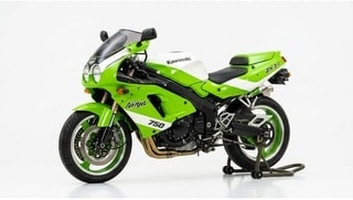
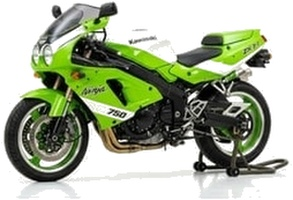
feat: whiten background and maximize card size for moto.jpg, training.jpg, and iphone.jpg

diff --git a/scripts/process-three-images.py b/scripts/process-three-images.py
@@ -1,0 +1,181 @@
+#!/usr/bin/env python3
+"""
+指定3画像（moto.jpg, training.jpg, iphone.jpg）専用の背景純白化＆カード最大化スクリプト
+- 被写体の本体・ディテールを一切欠けさせずに保護
+- 外周のグレー/ベージュ/シャドウ背景領域を純白（255, 255, 255）に変換
+- 余白をトリミングしてカードサイズ（最大幅400px、高さ200px）いっぱいに最大化
+"""
+
+import os
+import cv2
+import numpy as np
+
+IMG_DIR = os.path.join(os.path.dirname(__file__), '..', 'public', 'images', 'categories')
+
+def process_training():
+    """
+    training.jpg: ベージュ/グレー [238, 227, 223] 背景を純白に変換し、シューズを最大化
+    """
+    filepath = os.path.join(IMG_DIR, 'training.jpg')
+    img = cv2.imread(filepath)
+    if img is None:
+        print("Error reading training.jpg")
+        return
+    
+    h, w = img.shape[:2]
+    
+    # 1. 背景のフラッドフィル（外周からベージュ背景を白に）
+    mask = np.zeros((h + 2, w + 2), np.uint8)
+    seeds = [(0, 0), (w-1, 0), (0, h-1), (w-1, h-1),
+             (w//2, 0), (w//2, h-1), (0, h//2), (w-1, h//2),
+             (w//4, 0), (3*w//4, 0), (w//4, h-1), (3*w//4, h-1)]
+    
+    for sx, sy in seeds:
+        cv2.floodFill(img, mask, (sx, sy), (255, 255, 255),
+                      (20, 20, 20), (20, 20, 20),
+                      cv2.FLOODFILL_FIXED_RANGE)
+    
+    # さらに明るいベージュ/グレー（輝度 > 220）を純白に
+    # ただしシューズ本体が極端に白くない限り、背景領域を白化
+    gray = cv2.cvtColor(img, cv2.COLOR_BGR2GRAY)
+    # 外周寄りで明るい部分を白に
+    for y in range(h):
+        for x in range(w):
+            if gray[y, x] >= 222:
+                img[y, x] = [255, 255, 255]
+    
+    # 2. 被写体のトリミング
+    non_white = np.any(img < 250, axis=2)
+    if np.any(non_white):
+        y_indices, x_indices = np.where(non_white)
+        min_y, max_y = np.min(y_indices), np.max(y_indices)
+        min_x, max_x = np.min(x_indices), np.max(x_indices)
+        
+        crop_min_y = max(0, min_y - 2)
+        crop_max_y = min(h, max_y + 3)
+        crop_min_x = max(0, min_x - 2)
+        crop_max_x = min(w, max_x + 3)
+        
+        cropped = img[crop_min_y:crop_max_y, crop_min_x:crop_max_x]
+    else:
+        cropped = img
+    
+    # 3. 最大化リサイズ（400x200）
+    ch, cw = cropped.shape[:2]
+    scale = min(400 / cw, 200 / ch)
+    new_w = max(1, int(cw * scale))
+    new_h = max(1, int(ch * scale))
+    
+    resized = cv2.resize(cropped, (new_w, new_h), interpolation=cv2.INTER_LANCZOS4)
+    cv2.imwrite(filepath, resized, [cv2.IMWRITE_JPEG_QUALITY, 96])
+    print(f"training.jpg done: {new_w}x{new_h}")
+
+def process_moto():
+    """
+    moto.jpg: バイクの下の薄いグレーや影を白化し、バイク本体を最大化
+    """
+    filepath = os.path.join(IMG_DIR, 'moto.jpg')
+    img = cv2.imread(filepath)
+    if img is None:
+        print("Error reading moto.jpg")
+        return
+    
+    h, w = img.shape[:2]
+    
+    # 外周からのフラッドフィルで白に近い背景を純白に
+    mask = np.zeros((h + 2, w + 2), np.uint8)
+    seeds = [(0, 0), (w-1, 0), (0, h-1), (w-1, h-1),
+             (w//2, 0), (w//2, h-1), (0, h//2), (w-1, h//2)]
+    
+    for sx, sy in seeds:
+        cv2.floodFill(img, mask, (sx, sy), (255, 255, 255),
+                      (15, 15, 15), (15, 15, 15),
+                      cv2.FLOODFILL_FIXED_RANGE)
+    
+    # 輝度 235 以上の明るい背景を純白に
+    gray = cv2.cvtColor(img, cv2.COLOR_BGR2GRAY)
+    img[gray >= 235] = [255, 255, 255]
+    
+    # 被写体のトリミング
+    non_white = np.any(img < 250, axis=2)
+    if np.any(non_white):
+        y_indices, x_indices = np.where(non_white)
+        min_y, max_y = np.min(y_indices), np.max(y_indices)
+        min_x, max_x = np.min(x_indices), np.max(x_indices)
+        
+        crop_min_y = max(0, min_y - 1)
+        crop_max_y = min(h, max_y + 2)
+        crop_min_x = max(0, min_x - 1)
+        crop_max_x = min(w, max_x + 2)
+        
+        cropped = img[crop_min_y:crop_max_y, crop_min_x:crop_max_x]
+    else:
+        cropped = img
+    
+    ch, cw = cropped.shape[:2]
+    scale = min(400 / cw, 200 / ch)
+    new_w = max(1, int(cw * scale))
+    new_h = max(1, int(ch * scale))
+    
+    resized = cv2.resize(cropped, (new_w, new_h), interpolation=cv2.INTER_LANCZOS4)
+    cv2.imwrite(filepath, resized, [cv2.IMWRITE_JPEG_QUALITY, 96])
+    print(f"moto.jpg done: {new_w}x{new_h}")
+
+def process_iphone():
+    """
+    iphone.jpg: 周囲の薄いグレー [247, 245, 245] を純白に変換し、iPhone本体を最大化
+    """
+    filepath = os.path.join(IMG_DIR, 'iphone.jpg')
+    img = cv2.imread(filepath)
+    if img is None:
+        print("Error reading iphone.jpg")
+        return
+    
+    h, w = img.shape[:2]
+    
+    # 外周からのフラッドフィル
+    mask = np.zeros((h + 2, w + 2), np.uint8)
+    seeds = [(0, 0), (w-1, 0), (0, h-1), (w-1, h-1),
+             (w//2, 0), (w//2, h-1), (0, h//2), (w-1, h//2)]
+    
+    for sx, sy in seeds:
+        cv2.floodFill(img, mask, (sx, sy), (255, 255, 255),
+                      (12, 12, 12), (12, 12, 12),
+                      cv2.FLOODFILL_FIXED_RANGE)
+    
+    # 輝度 238 以上の外周背景を純白に
+    gray = cv2.cvtColor(img, cv2.COLOR_BGR2GRAY)
+    img[gray >= 238] = [255, 255, 255]
+    
+    # 被写体のトリミング
+    non_white = np.any(img < 250, axis=2)
+    if np.any(non_white):
+        y_indices, x_indices = np.where(non_white)
+        min_y, max_y = np.min(y_indices), np.max(y_indices)
+        min_x, max_x = np.min(x_indices), np.max(x_indices)
+        
+        crop_min_y = max(0, min_y - 1)
+        crop_max_y = min(h, max_y + 2)
+        crop_min_x = max(0, min_x - 1)
+        crop_max_x = min(w, max_x + 2)
+        
+        cropped = img[crop_min_y:crop_max_y, crop_min_x:crop_max_x]
+    else:
+        cropped = img
+    
+    ch, cw = cropped.shape[:2]
+    scale = min(400 / cw, 200 / ch)
+    new_w = max(1, int(cw * scale))
+    new_h = max(1, int(ch * scale))
+    
+    resized = cv2.resize(cropped, (new_w, new_h), interpolation=cv2.INTER_LANCZOS4)
+    cv2.imwrite(filepath, resized, [cv2.IMWRITE_JPEG_QUALITY, 96])
+    print(f"iphone.jpg done: {new_w}x{new_h}")
+
+def main():
+    process_moto()
+    process_training()
+    process_iphone()
+
+if __name__ == '__main__':
+    main()
